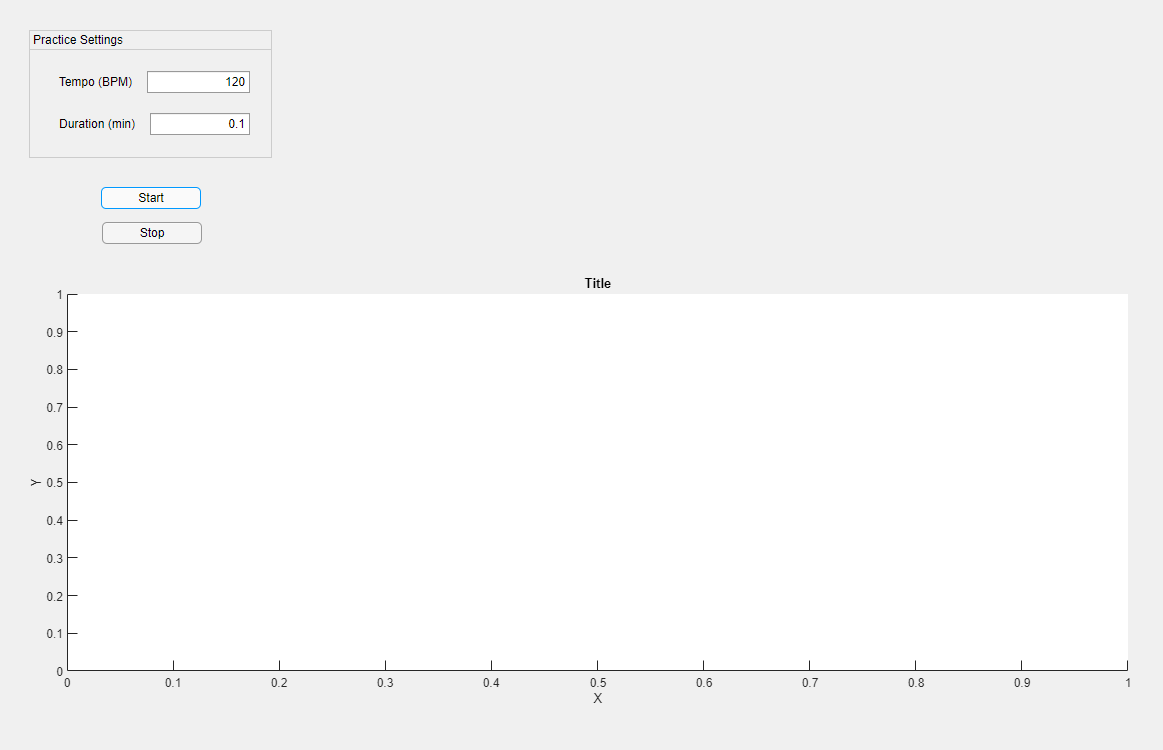
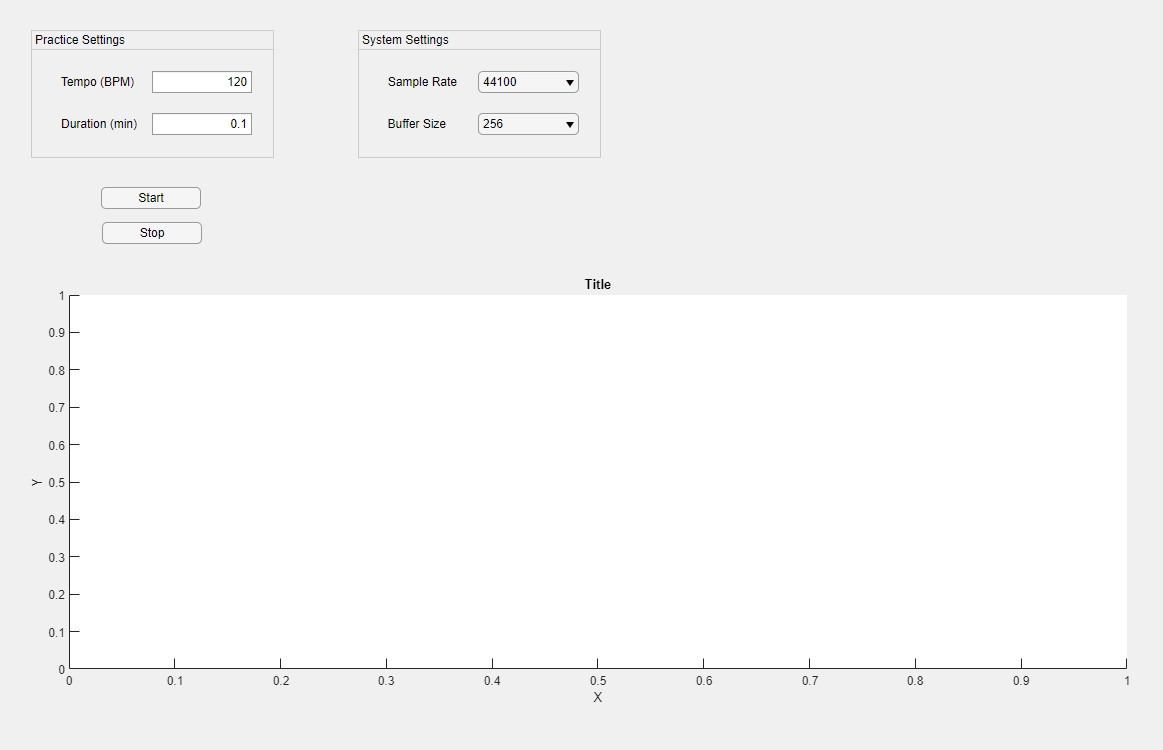
Add GUI controls for sample rate and buffer size

diff --git a/TimingInfo.m b/TimingInfo.m
@@ -19,6 +19,7 @@ classdef TimingInfo < handle
             self.errors = TimingError.empty(0, length(self.onsetLocs));
 
             tickCursor = 1;
+            prevTick = 0;
             wb = waitbar(0, 'Analysing timing...');
 
             for iter = 1:length(self.onsetLocs)
@@ -63,12 +64,6 @@ classdef TimingInfo < handle
             self.avgEarly = early / earlyNum;
             self.avgLate = late / lateNum;
             close(wb);
-            disp('Average:');
-            disp(self.average);
-            disp('Average early:');
-            disp(self.avgEarly);
-            disp('Average late:');
-            disp(self.avgLate);
 
             if subtractAverageLag
                 averageLag = round(self.average);
@@ -84,8 +79,8 @@ classdef TimingInfo < handle
     methods (Static, Access = private)
 
         function onsetLocs = detectOnsets(audioIn, minPeakDist)
-            fftSize = 64; % Keep this low to maintain high accuracy
-            hopSize = 64;
+            fftSize = 128; % Keep this low to maintain high accuracy
+            hopSize = 128;
 
             cursor = 1;
             novelty = zeros(length(audioIn), 1);

diff --git a/runPracticeSession.m b/runPracticeSession.m
@@ -1,11 +1,10 @@
 function runPracticeSession(app)
     %% Setup player
-    app.session = PracticeSession(app.TempoField.Value, app.DurationField.Value * 60, app.vars.fs);
-    app.player = audioplayer(app.session.metronome.audio, app.vars.fs);
-    app.player.StopFcn = @(~, ~) disp('Player stop');
+    app.session = PracticeSession(app.TempoField.Value, app.DurationField.Value * 60, str2double(app.SampleRateDropDown.Value));
+    app.player = audioplayer(app.session.metronome.audio, str2double(app.SampleRateDropDown.Value));
 
     %% Setup recorder and file writer
-    app.deviceReader = audioDeviceReader(app.vars.fs, app.vars.frameLength);
+    app.deviceReader = audioDeviceReader(str2double(app.SampleRateDropDown.Value), str2double(app.BufferSizeDropDown.Value));
     setup(app.deviceReader);
     app.fileWriter = dsp.AudioFileWriter('audioResources/audioIn.wav', 'FileFormat', 'WAV');
 

diff --git a/TimingError.m b/TimingError.m
@@ -14,7 +14,7 @@ classdef TimingError < handle
             self.prevTick = prevTick;
             self.nextTick = nextTick;
 
-            if onset - prevTick < nextTick - onset || nextTick == 0
+            if (onset - prevTick < nextTick - onset || nextTick == 0) && prevTick ~= 0
                 self.closestTick = prevTick;
                 self.isEarly = false;
             else

diff --git a/recordAudioIn.m b/recordAudioIn.m
@@ -1,6 +1,4 @@
 function audioIn = recordAudioIn(app)
-    disp('Recording...')
-
     tic;
     while app.player.isplaying && toc < app.DurationField.Value * 60
         drawnow();
@@ -8,6 +6,5 @@ function audioIn = recordAudioIn(app)
         app.fileWriter(audioFromDevice);
     end
 
-    disp('Done recording.');
     audioIn = audioread('audioResources/audioIn.wav');
 end
